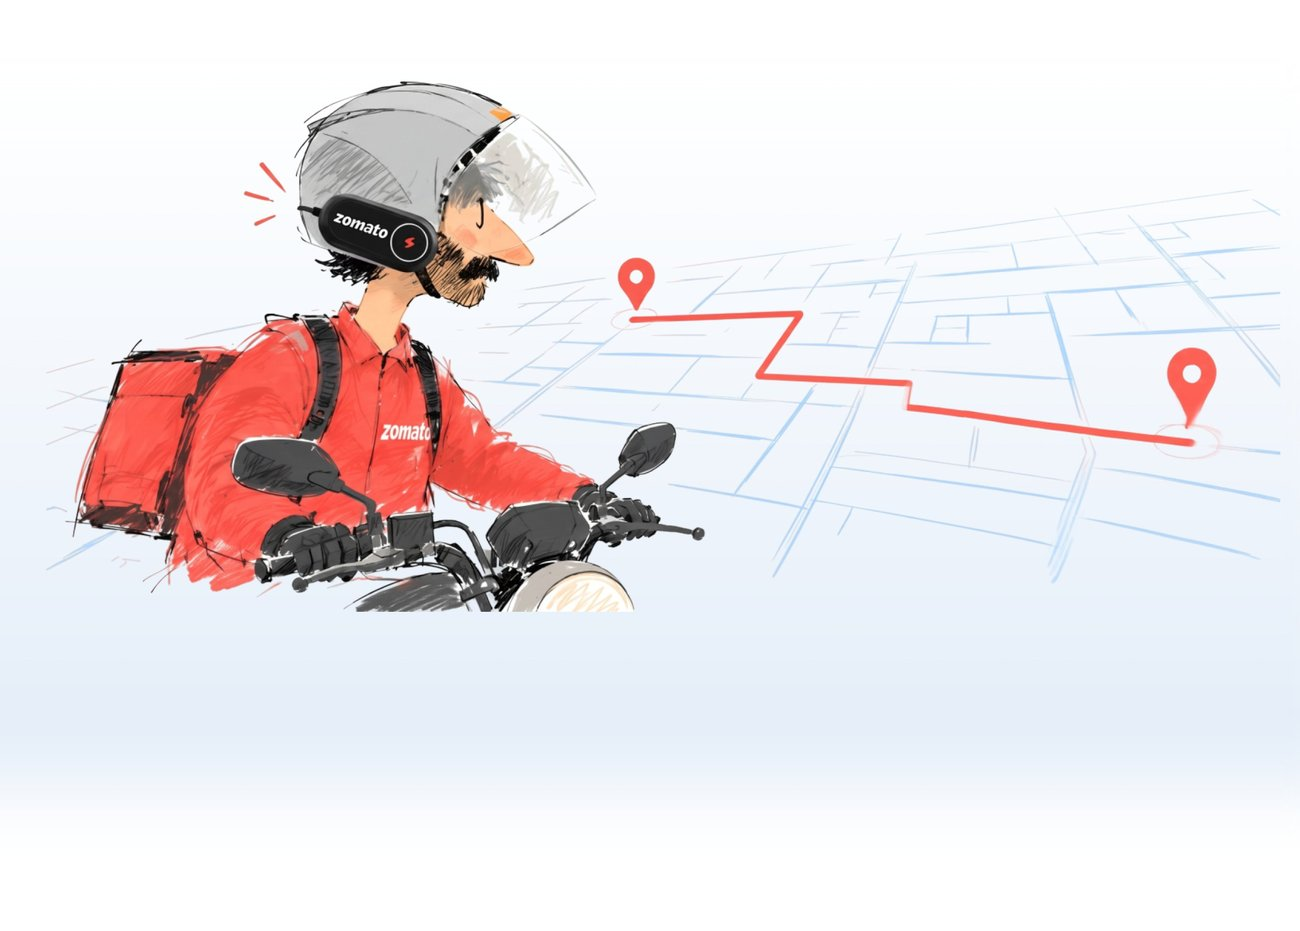
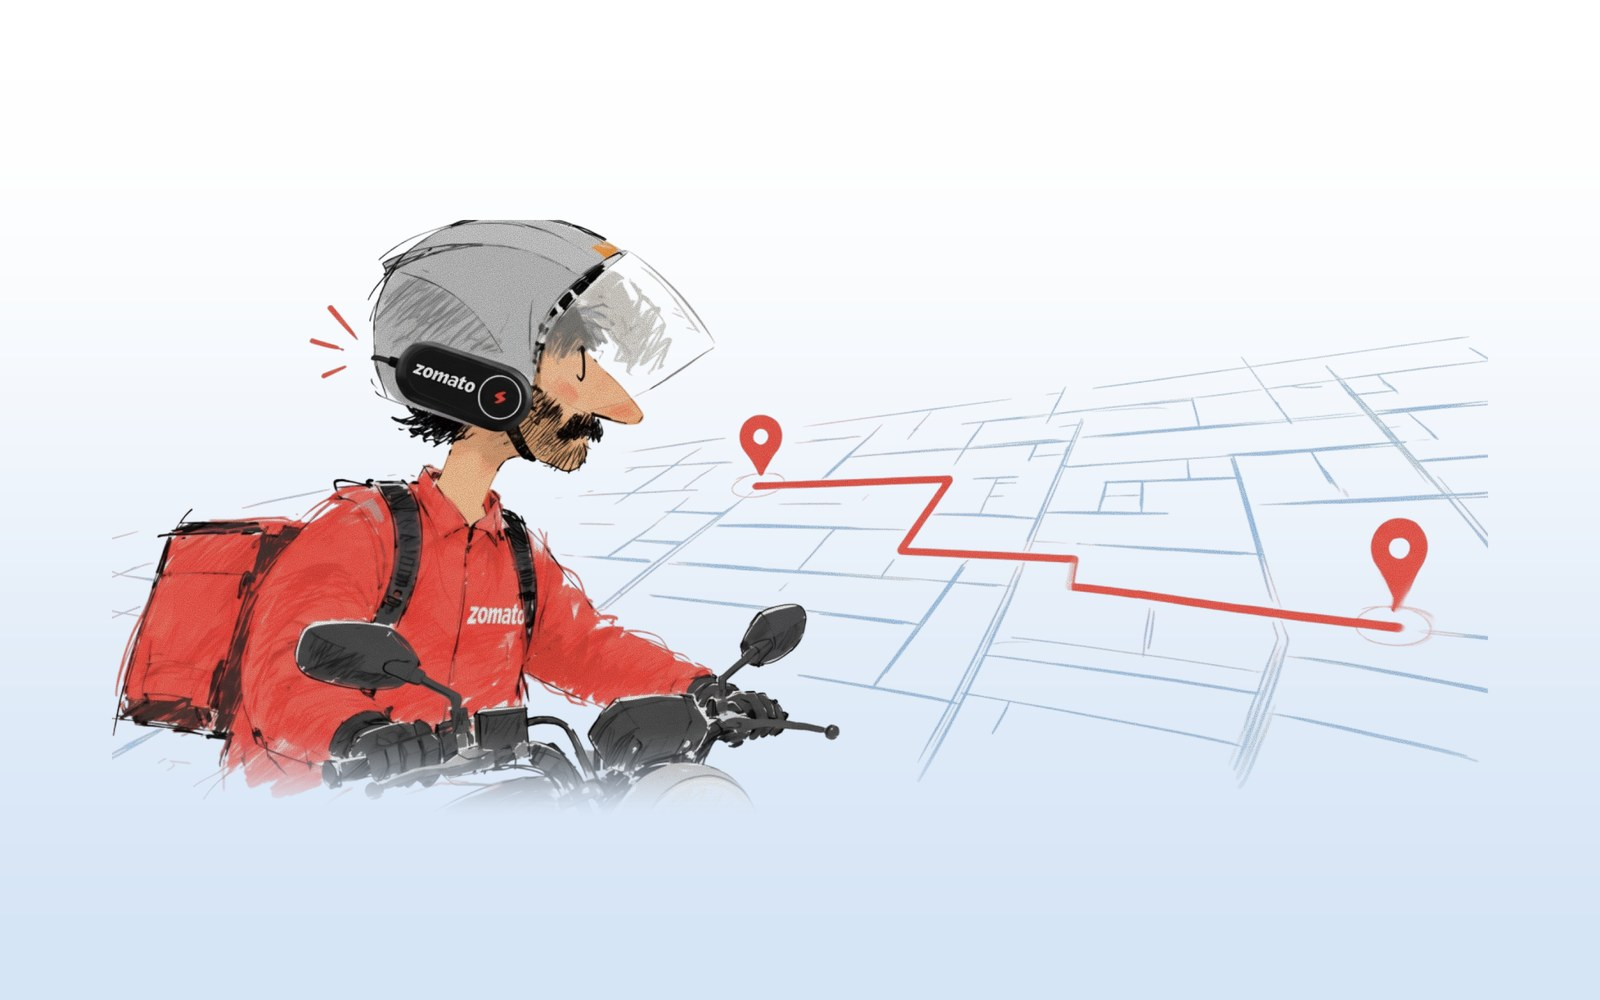
Homepage: new Calbre thumbnail, centred KAI thumbnail
Calbre card uses the current Figma hero (wordmark + device with ring).
KAI illustration re-rendered from Figma and centred on a smooth version
of the hero background, with a soft fade where the scooter is cut off.

diff --git a/index.html b/index.html
@@ -124,11 +124,11 @@ footer .links a:hover{color:var(--ink)}
         <div class="over"><h2>MamaLap</h2><p>Breastfeeding support for new mothers &middot; 2025</p></div>
       </a>
       <a class="card" href="kai.html">
-        <div class="img"><img src="images/home/kai.jpg" width="1300" height="931" alt="Delivery rider with a voice navigation device on the helmet"></div>
+        <div class="img"><img src="images/home/kai.jpg?v=1029" width="1600" height="1000" alt="Delivery rider with a voice navigation device on the helmet"></div>
         <div class="over"><h2>KAI</h2><p>Voice navigation for delivery riders &middot; 2026</p></div>
       </a>
       <a class="card" href="calbre.html">
-        <div class="img"><img style="object-position:31% 50%" src="images/home/tcp-calbre.jpg" width="1300" height="578" alt="Calbre, a handheld breath device"></div>
+        <div class="img"><img src="images/home/tcp-calbre.jpg?v=1029" width="1600" height="1000" alt="Calbre, a handheld breath device"></div>
         <div class="over"><h2>Calbre</h2><p>A breath companion for weight maintenance &middot; 2026</p></div>
       </a>
       <a class="card" href="cmf.html">
